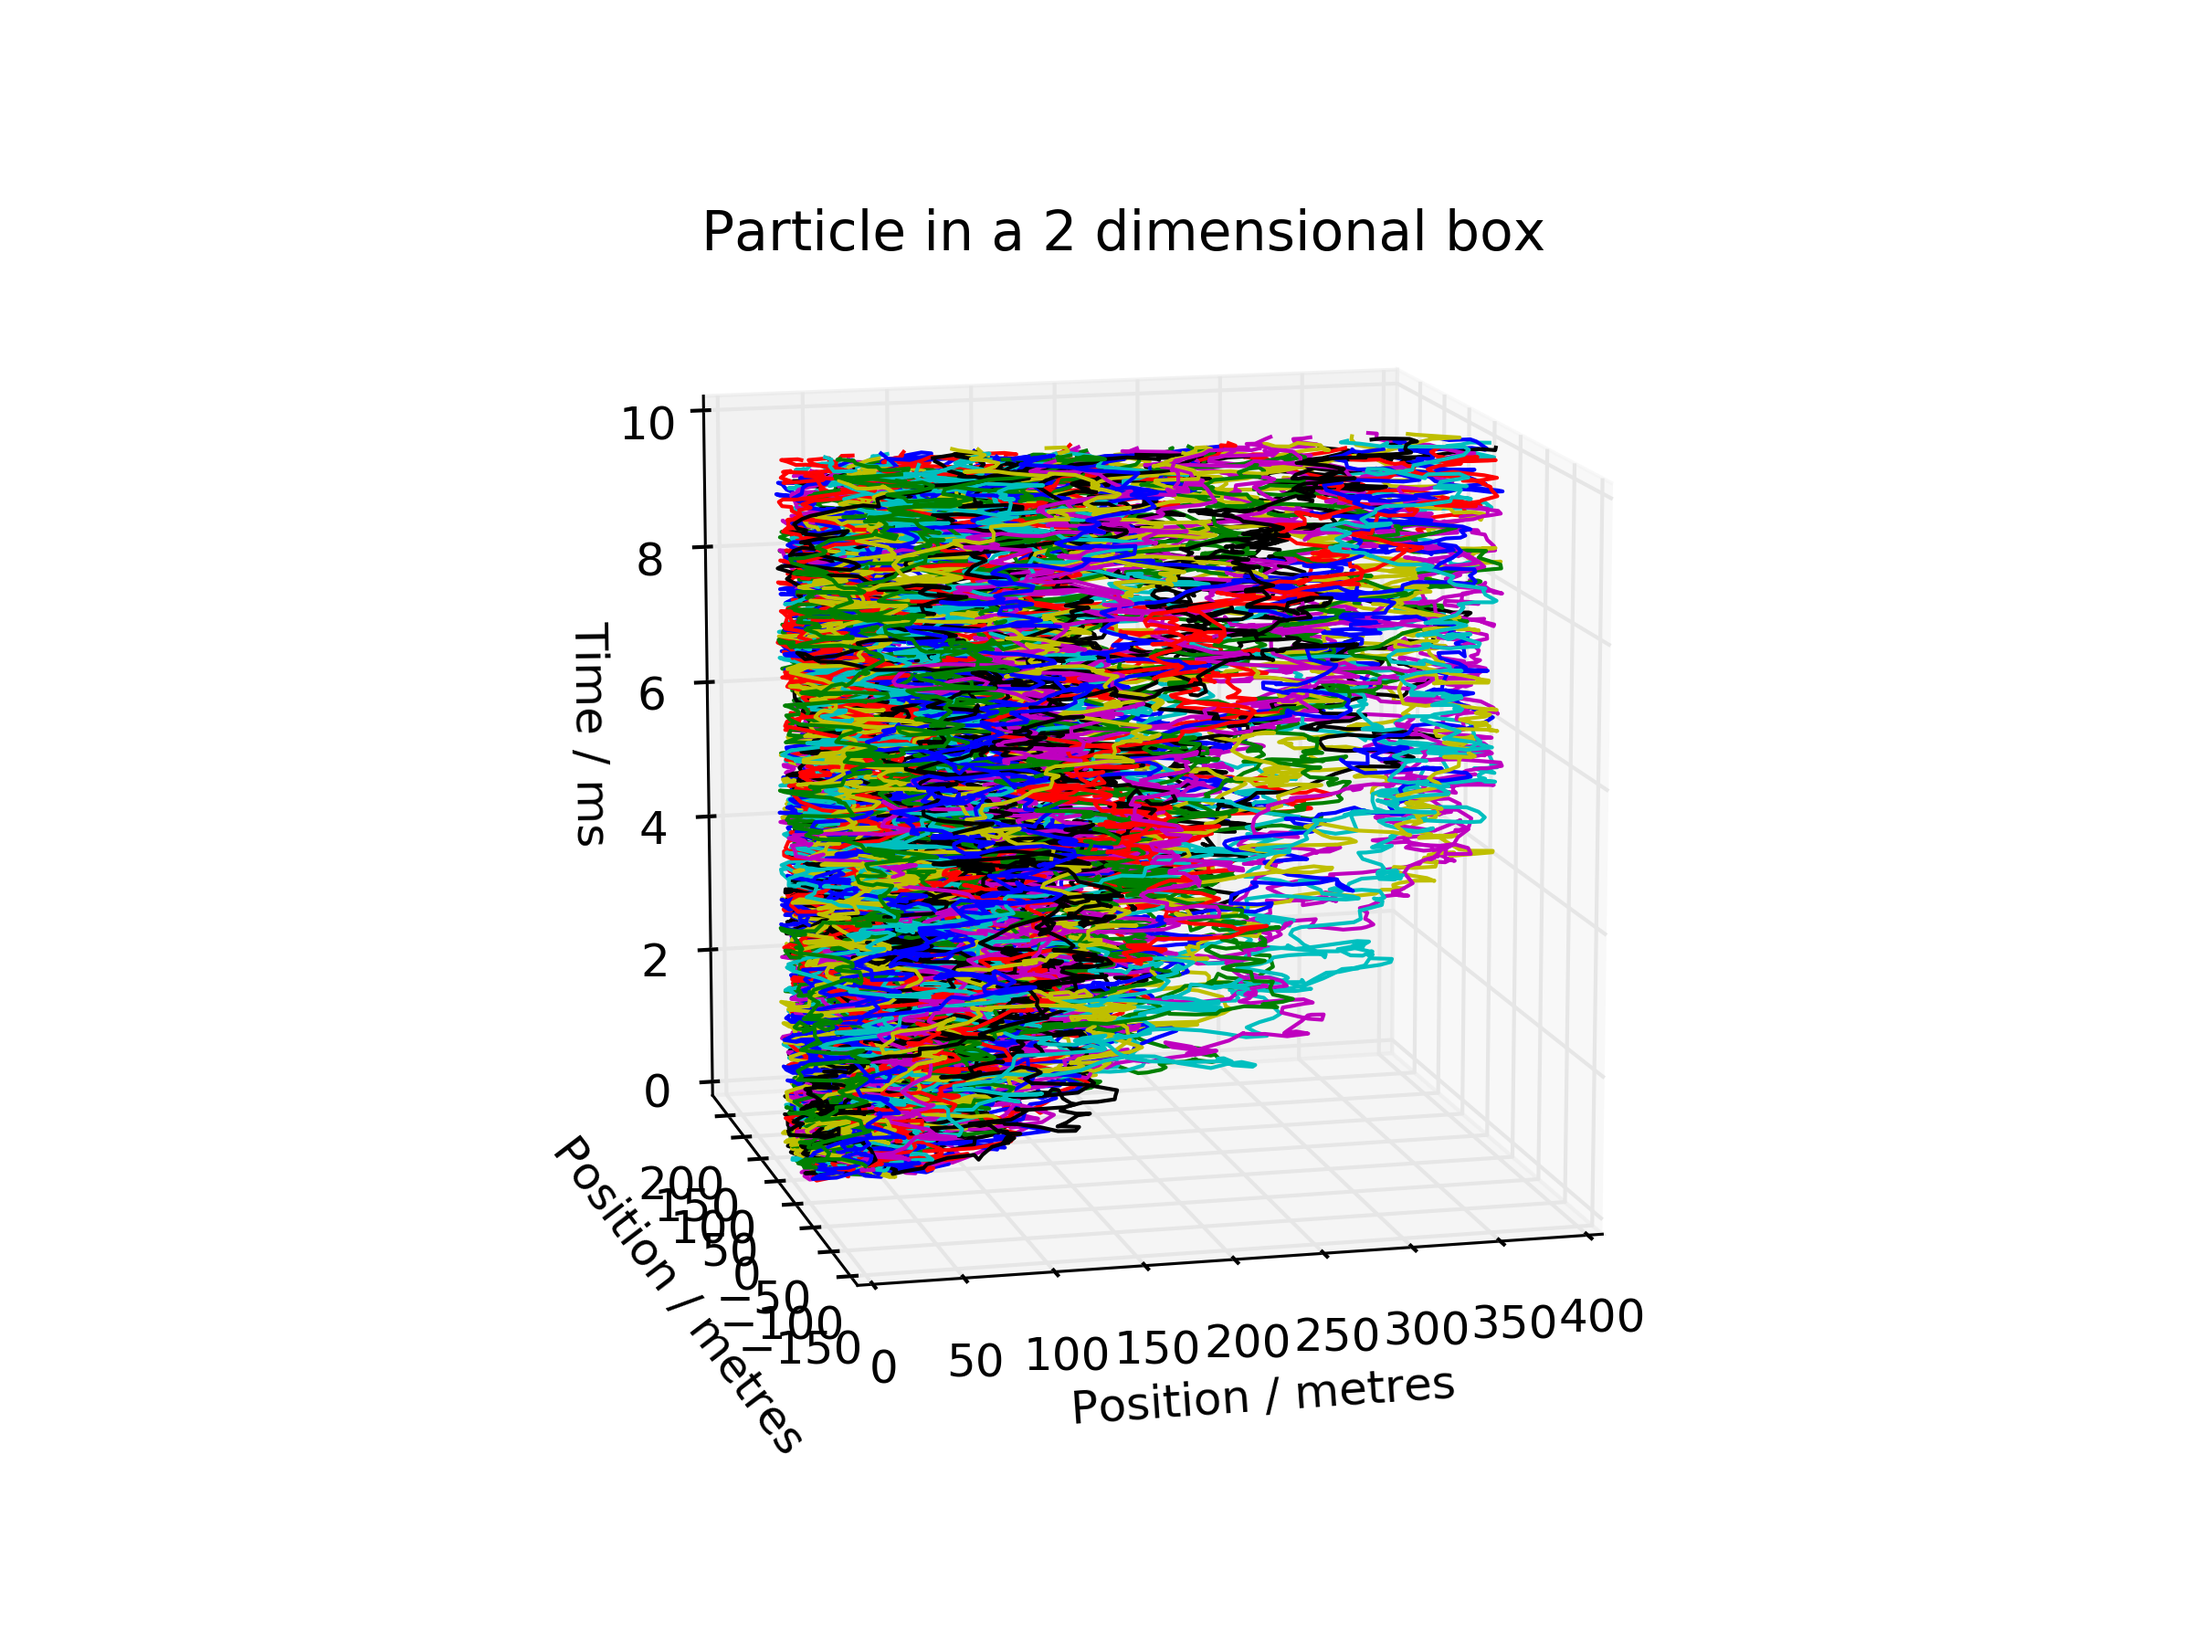
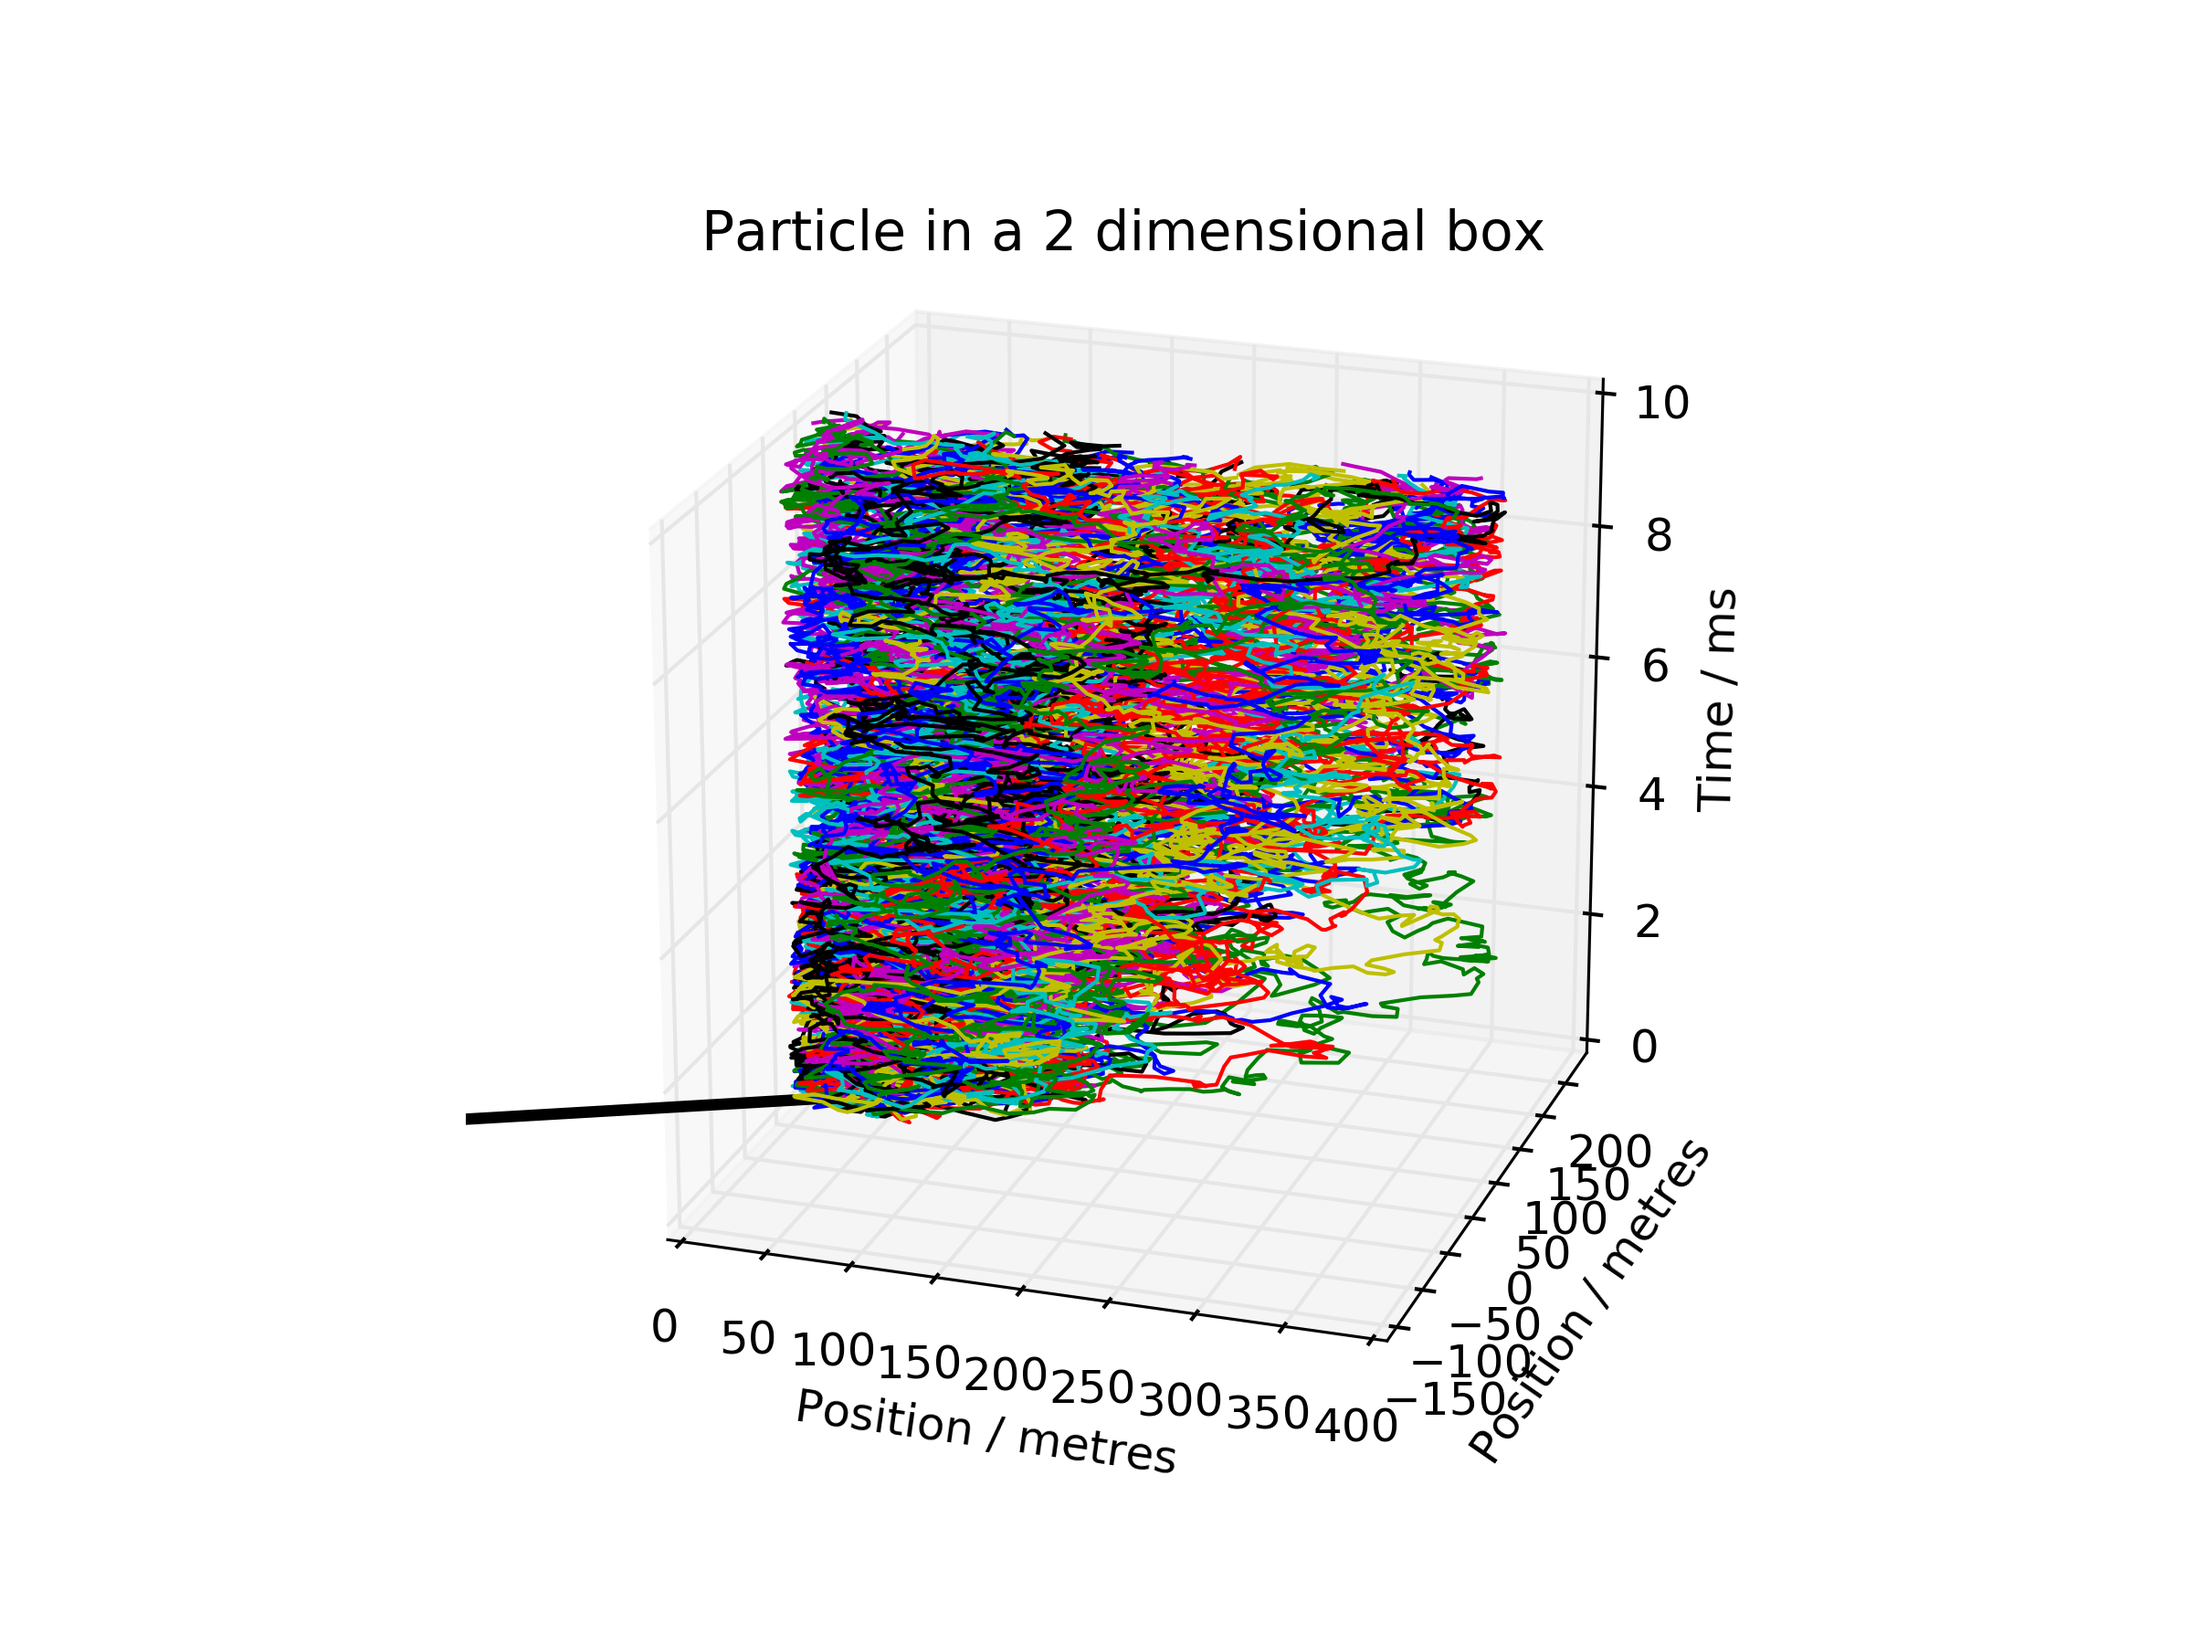
more varieties of kde

diff --git a/plotLightCone.py b/plotLightCone.py
@@ -4,11 +4,13 @@ from json import load
 from matplotlib import pyplot as plt
 from mpl_toolkits.mplot3d import Axes3D
 from scipy.stats import gaussian_kde
+from scipy import stats
 from numpy import array
 import numpy as np
 from mpl_toolkits.mplot3d import Axes3D
 from matplotlib.patches import FancyArrowPatch
 from mpl_toolkits.mplot3d import proj3d
+from mayavi import mlab
 
 
 class Arrow3D(FancyArrowPatch):
@@ -34,11 +36,6 @@ def log_volume_fractions2(walks):
 
 def log_volume_fractions_slice(walks):
     'compute log_volume_fractions and step through time'
-    print array(walks).shape
-    points = array(walks).reshape((-1, 2))
-    print points
-    print points.shape
-
     for i in range(0, 400, 5):
         points = array([walk[i] for walk in walks]).reshape((-1,2))
         kernel = gaussian_kde(points.T)
@@ -49,8 +46,7 @@ def log_volume_fractions_slice(walks):
         ax.set_xlim(0, 400)
         ax.set_ylim(0, 80)
         ax.imshow(np.rot90(f), cmap='Blues', extent=[0, 400, 0, 80])
-        plt.show()
-    
+        plt.show()    
     endpoints = array([walk[-1] for walk in walks])
     length = int(0.75 * len(walks[0]))
     points = array([walk[length:] for walk in walks]).reshape((-1,2))
@@ -59,26 +55,75 @@ def log_volume_fractions_slice(walks):
     return logpdfs, kernel
 
 
-def log_volume_fractions_multiple(walks):
+def log_volume_fractions(walks):
     'compute log_volume_fractions using timeslices'
     kernels = []
     for i in range(len(walks[0])):
         points = array([walk[i] for walk in walks]).reshape((-1,2))
         kernels.append(gaussian_kde(points.T))
-    f = [sum([kernels[i].pdf(w)[0] for i, w in enumerate(ws)]) for ws in walks]
+    f = [1.0 / sum([kernels[i].pdf(w)[0] for i, w in enumerate(ws)]) for ws in walks]
     return f, kernels[-1]
 
 
-def log_volume_fractions_multiple(walks):
-    'compute log_volume_fractions with a big kernel'
-    kernels = []
-    for i in range(len(walks[0])):
-        points = array([walk[i] for walk in walks]).reshape((-1,2))
-        kernels.append(gaussian_kde(points.T))
-    f = [sum([kernels[i].pdf(w)[0] for i, w in enumerate(ws)]) for ws in walks]
-    return f, kernels[-1]
+def log_volume_fractions_big(walks):
+    'compute log_volume_fractions using one big kernel'
+    points = array(walks).reshape((-1, 2))
+    kernel = gaussian_kde(points.T)
+    f = [sum([kernel.pdf(w)[0] for i, w in enumerate(ws)]) for ws in walks]
+    return f, kernel
 
+
+def log_volume_fractions_3d(walks):
+    'compute log_volume_fractions in 3D'
+    walks = array([[list(w) + [i] for i, w in enumerate(ws)] for ws in walks])
+    kernel = gaussian_kde(walks.reshape((-1, 3)).T)
+    length = len(walks[0]) / 2
+    logpdfs = -array([kernel.pdf(w[length:].T) for w in walks]).sum(axis=1)
     
+    fig = plt.figure()
+    ax = fig.add_subplot(111, projection='3d')
+    points = walks.reshape((-1, 3))
+
+    xs = [p[0] for p in points]
+    ys = [p[1] for p in points]
+    zs = [p[2] for p in points]
+    
+    ax.scatter(xs, ys, zs)
+    plt.show()
+    
+    return logpdfs, kernel
+
+
+
+def plot_kernel_density(walks):
+    'compute log_volume_fractions in 3D'
+    walks = array([[list(w) + [i] for i, w in enumerate(ws)] for ws in walks])
+    points = walks.reshape((-1, 3))
+
+    x = [p[0] for p in points]
+    y = [p[1] for p in points]
+    z = [p[2] for p in points]
+
+    xyz = np.vstack([x,y,z])
+    kde = stats.gaussian_kde(xyz)
+
+    # Evaluate kde on a grid
+    xmin, ymin, zmin = 0, 0, 0
+    xmax, ymax, zmax = 400, 80, 400
+    xi, yi, zi = np.mgrid[xmin:xmax:30j, ymin:ymax:30j, zmin:zmax:30j]
+    coords = np.vstack([item.ravel() for item in [xi, yi, zi]]) 
+    density = kde(coords).reshape(xi.shape)
+
+    # Plot scatter with mayavi
+    figure = mlab.figure('DensityPlot')
+
+    grid = mlab.pipeline.scalar_field(xi, yi, zi, density)
+    min = density.min()
+    max=density.max()
+    mlab.pipeline.volume(grid, vmin=min, vmax=min + .5*(max-min))
+
+    mlab.axes()
+    mlab.show()
 
 
 def causal(cur_macrostate, num_sample_paths, environment):
@@ -101,7 +146,7 @@ def causal(cur_macrostate, num_sample_paths, environment):
         initial_forces.append(forces[1])
         walks.append(walk)
     # Kernel Density Estimation of log volume fractions
-    log_volume_fracs, kernel = log_volume_fractions(sample_paths)
+    log_volume_fracs, kernel = plot_kernel_density(sample_paths)
     # sum force contributions
     force = sum([f*l for i, l in zip(initial_forces, log_volume_fracs)])
     force = 2.0 * environment.TC * force / (environment.TR * num_sample_paths)
@@ -195,7 +240,7 @@ if __name__ == "__main__":
     walks, force, kernel = causal(cur_macrostate, num_sample_paths, environment)
     difference = environment.step_macrostate(array([0.0, 0.0]), force)
     plot_kernel(kernel, cur_macrostate, difference)
-    #plot_3D(walks, environment, cur_macrostate, difference)
+    plot_3D(walks, environment, cur_macrostate, difference)
     #plot_2D(walks, environment, cur_macrostate, difference)
     
     

diff --git a/agent.py b/agent.py
@@ -45,25 +45,25 @@ def log_volume_fractions_3d(walks):
     return logpdfs
 
 
-def log_volume_fractions(walks):
-    'compute log_volume_fractions by aggregating all points together'
-    print array(walks).shape
-    points = array(walks).reshape((-1, 2))
-    print points
-    print points.shape
-    kernel = gaussian_kde(points.T)
-    
-    fig = plt.figure()
-    ax = fig.add_subplot(111, aspect = 'equal')
-    xx, yy = np.mgrid[0:400:200j, 0:80:200j]
-    f = np.reshape(kernel(np.vstack([xx.ravel(), yy.ravel()])).T, xx.shape)
-    ax.set_xlim(0, 400)
-    ax.set_ylim(0, 80)
-    ax.imshow(np.rot90(f), cmap='Blues', extent=[0, 400, 0, 80])
-    plt.show()
-    plt.pause(0.001)
-    input()
+def log_volume_fractions_slice(walks):
+    'compute log_volume_fractions using timeslices'
+    kernels = []
+    for i in range(len(walks[0])):
+        points = array([walk[i] for walk in walks]).reshape((-1,2))
+        kernels.append(gaussian_kde(points.T))
+    f = [sum([kernels[i].pdf(w)[0] for i, w in enumerate(ws)]) for ws in walks]
+    return f
 
+
+def log_volume_fractions(walks):
+    'compute log_volume_fractions using timeslices'
+    kernels = []
+    for i in range(len(walks[0])):
+        points = array([walk[i] for walk in walks]).reshape((-1,2))
+        kernels.append(gaussian_kde(points.T))
+    #f = [sum([kernels[i].pdf(w)[0] for i, w in enumerate(ws)]) for ws in walks]
+    f = [sum([k.pdf(ws[0])[0] for k in kernels]) for ws in walks]
+    return f
 
     
 def calculate_causal_entropic_force(cur_macrostate, num_sample_paths, environment):
